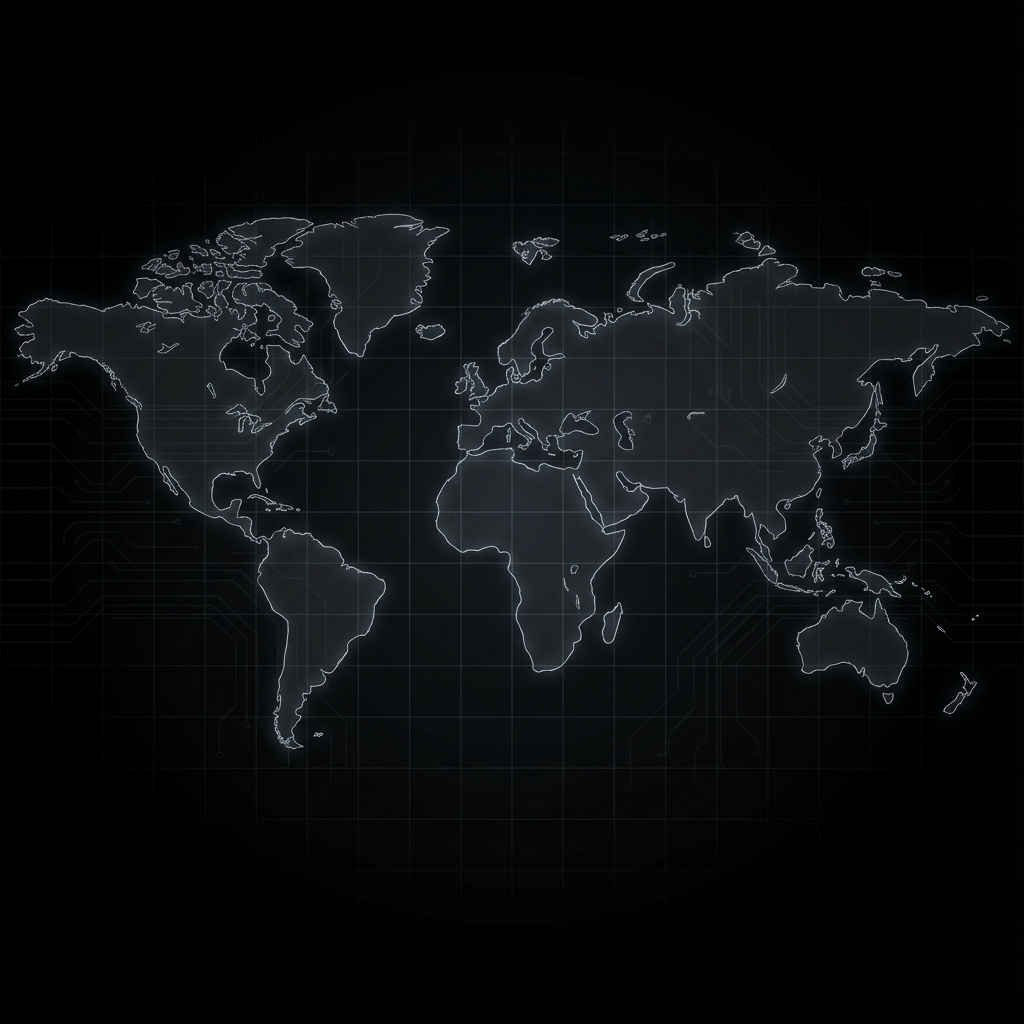
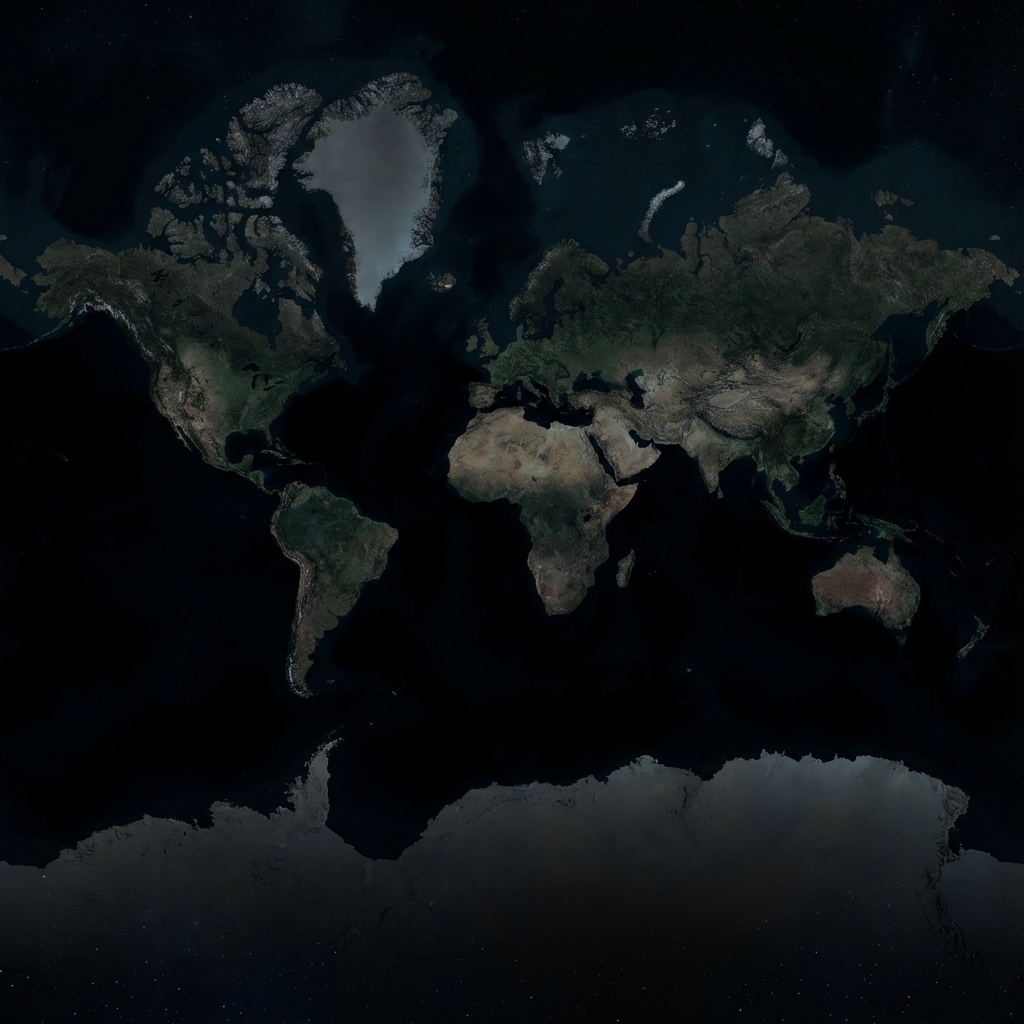
Update map to hyper-realistic 4K version without grid

diff --git a/src/components/analysis/IPGeolocationMap.tsx b/src/components/analysis/IPGeolocationMap.tsx
@@ -78,11 +78,8 @@ export function IPGeolocationMap({ locations, className = "" }: IPMapProps) {
                     priority
                 />
 
-                {/* Overlay Grid */}
-                <div className="absolute inset-0 bg-[linear-gradient(rgba(255,255,255,0.03)_1px,transparent_1px),linear-gradient(90deg,rgba(255,255,255,0.03)_1px,transparent_1px)] bg-[size:40px_40px]" />
-
                 {/* Vignette */}
-                <div className="absolute inset-0 bg-[radial-gradient(circle_at_center,transparent_30%,rgba(0,0,0,0.8)_100%)]" />
+                <div className="absolute inset-0 bg-[radial-gradient(circle_at_center,transparent_30%,rgba(0,0,0,0.4)_100%)]" />
 
                 {/* Markers Layer */}
                 <div className="absolute inset-0 p-[2%]"> {/* Slight padding for edge markers */}
